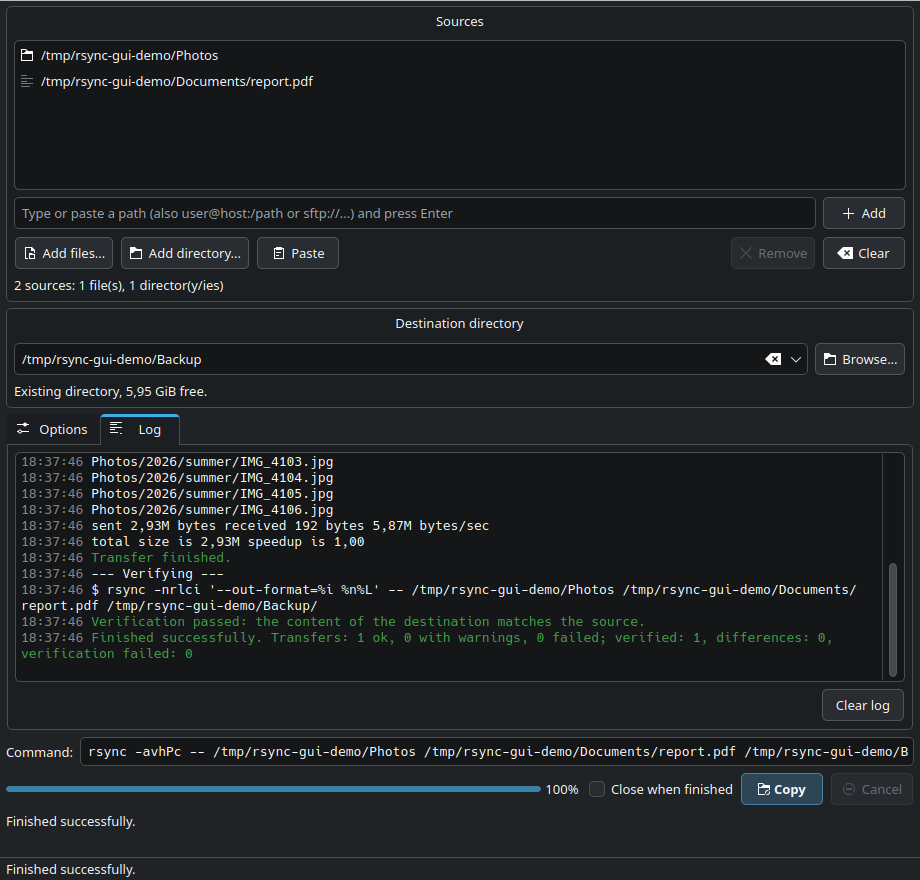
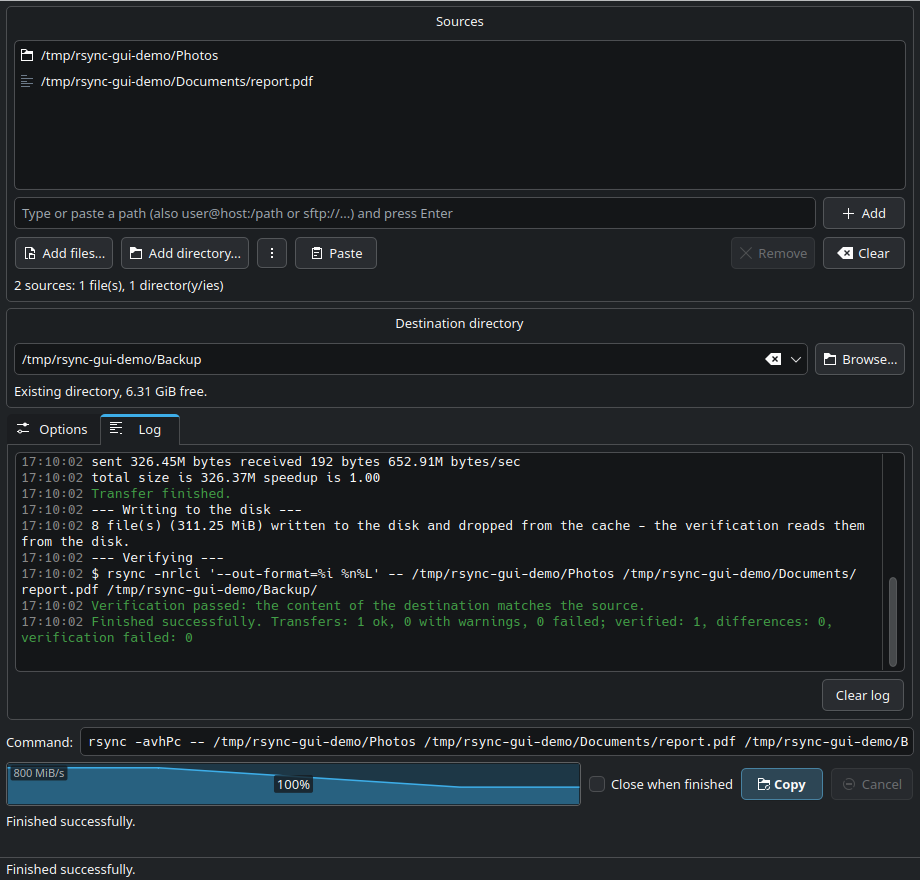
Screenshots: the built-in file dialog, the speed graph; rendered offscreen
make-screenshots.sh now renders the real application offscreen in the
Breeze style, so no windows or Plasma notifications appear on the screen,
with English number and date formats and UTC times whatever the machine.
The demo data holds larger files (a few seconds of work, so the speed
graph shows something) and a directory with names that are not valid
UTF-8, which the new screenshot of the built-in dialog shows.

diff --git a/tools/screenshots/screenshot.cpp b/tools/screenshots/screenshot.cpp
@@ -2,9 +2,12 @@
 // function drives the window with timers and saves QWidget::grab() of single widgets, so nothing
 // else on the screen ends up in the images. Started by tools/make-screenshots.sh.
 
+#include "filedialog.h"
+#include "localpath.h"
 #include "mainwindow.h"
 
 #include <QApplication>
+#include <QListWidget>
 #include <QGroupBox>
 #include <QMenu>
 #include <QMenuBar>
@@ -12,6 +15,7 @@
 #include <QPlainTextEdit>
 #include <QPushButton>
 #include <QTimer>
+#include <QToolButton>
 
 #include <cstdio>
 #include <functional>
@@ -80,6 +84,49 @@ void catchMessageBox(const QString &name, QMessageBox::ButtonRole role)
     });
 }
 
+// The built-in file dialog, opened from the menu next to "Add directory...", in the demo directory with
+// names that are not valid UTF-8 (SCREENSHOT_NAMES_DIR). The devices of the machine are left out.
+void saveFileDialog(MainWindow *w, const QString &name, std::function<void()> then)
+{
+    QToolButton *menuButton = nullptr;
+    for (QToolButton *b : w->findChildren<QToolButton *>()) {
+        if (b->menu() && b->text() == QStringLiteral("Built-in file dialog"))
+            menuButton = b;
+    }
+    if (!menuButton) {
+        std::printf("FAILED %s: no menu button\n", qPrintable(name));
+        then();
+        return;
+    }
+    after(800, [name] {
+        for (QWidget *widget : QApplication::topLevelWidgets()) {
+            auto *dialog = qobject_cast<BuiltInFileDialog *>(widget);
+            if (!dialog || !dialog->isVisible())
+                continue;
+            auto *places = dialog->findChild<QListWidget *>();
+            for (int i = 0; i < places->count(); ++i) {
+                if (places->item(i)->text() == QStringLiteral("Devices")) {
+                    while (places->count() > i)
+                        delete places->takeItem(i);
+                    break;
+                }
+            }
+            dialog->setDirectory(LocalPath::decode(qgetenv("SCREENSHOT_NAMES_DIR")));
+            dialog->selectNames({LocalPath::decode("caf\xe9.jpg")});
+            after(300, [dialog, name] {
+                save(dialog, name);
+                dialog->reject();
+            });
+            return;
+        }
+        std::printf("FAILED %s: no dialog\n", qPrintable(name));
+    });
+    after(0, [menuButton, then] {
+        menuButton->menu()->actions().at(0)->trigger(); // returns when the dialog is closed
+        then();
+    });
+}
+
 void run()
 {
     MainWindow *w = window();
@@ -127,7 +174,10 @@ void run()
             after(300, [w] {
                 catchMessageBox(QStringLiteral("rsync-gui-move-confirm.png"), QMessageBox::RejectRole);
                 button(w, QStringLiteral("Move"))->click();
-                after(800, [] { QApplication::quit(); });
+                // 6. The built-in file dialog.
+                after(800, [w] {
+                    saveFileDialog(w, QStringLiteral("rsync-gui-file-dialog.png"), [] { QApplication::quit(); });
+                });
             });
         });
     });

diff --git a/README.md b/README.md
@@ -110,8 +110,9 @@ cmake --install build --prefix ~/.local
 The Dolphin menu can be skipped with `cmake -S . -B build -DRSYNC_GUI_INSTALL_SERVICEMENUS=OFF`.
 
 Screenshots for this README (`docs/screenshots/rsync-gui-*.png`) are generated by running the real
-application with demo data in `/tmp/rsync-gui-demo` and a temporary configuration (the windows appear
-on the screen for a few seconds); the Dolphin menu screenshot is taken by hand:
+application offscreen in the Breeze style (nothing appears on the screen) with demo data in
+`/tmp/rsync-gui-demo` and a temporary configuration; the Dolphin menu and the notification
+screenshots are taken by hand:
 
 ```bash
 tools/make-screenshots.sh
@@ -203,7 +204,8 @@ New entries usually appear immediately; if not, run `kbuildsycoca6`.
 Behind the progress bar of the window there is a graph of the speed reported by rsync. The x axis is
 the time since the start (at least 10 seconds while running, the whole job after it ends), the top
 of the graph is the speed in its top left corner. Verification and removing the sources report no
-speed, so the graph has a gap there. The graph of the last job stays until the next one starts.
+speed, so the graph has a gap there. The graph of the last job stays until the next one starts
+(see the screenshot of the log after copying below).
 
 ## Progress outside the window
 
@@ -284,7 +286,7 @@ difference, after it the damaged file was reported. Limits: the drive's own cach
 the reads, files used by other programs (memory-mapped) may stay in memory, and for remote
 destinations the cache of the server cannot be dropped (the log says so).
 
-![The log after copying with verification](docs/screenshots/rsync-gui-finished.png)
+![The log after copying with verification, the speed graph of the copy behind the progress bar](docs/screenshots/rsync-gui-finished.png)
 
 **Moving with verification.** With both *Remove source files* and *Verify* on (the *Move and verify*
 preset), the sources are not removed during the copy. After the verification has found no
@@ -396,6 +398,8 @@ for a selected one, how it reads as Latin-1 (e.g. `caf\xe9.jpg` → *café.jpg*)
 apart names like `caf\xe9` and `caf\xe8`. *Always use the built-in dialog* in the same menu makes it
 the dialog of *Add files…*, *Add directory…* and *Browse…* of the destination; its *System dialog…*
 button opens the system dialog for one time.
+
+![The built-in file dialog with names that are not valid UTF-8](docs/screenshots/rsync-gui-file-dialog.png)
 
 Dolphin converts such names too (KIO replaces the bytes): what it passes from the context menu,
 drag & drop and *Copy* holds `�` (U+FFFD) instead, e.g. `caf%EF%BF%BD.jpg` for both `caf\xe9.jpg` and
